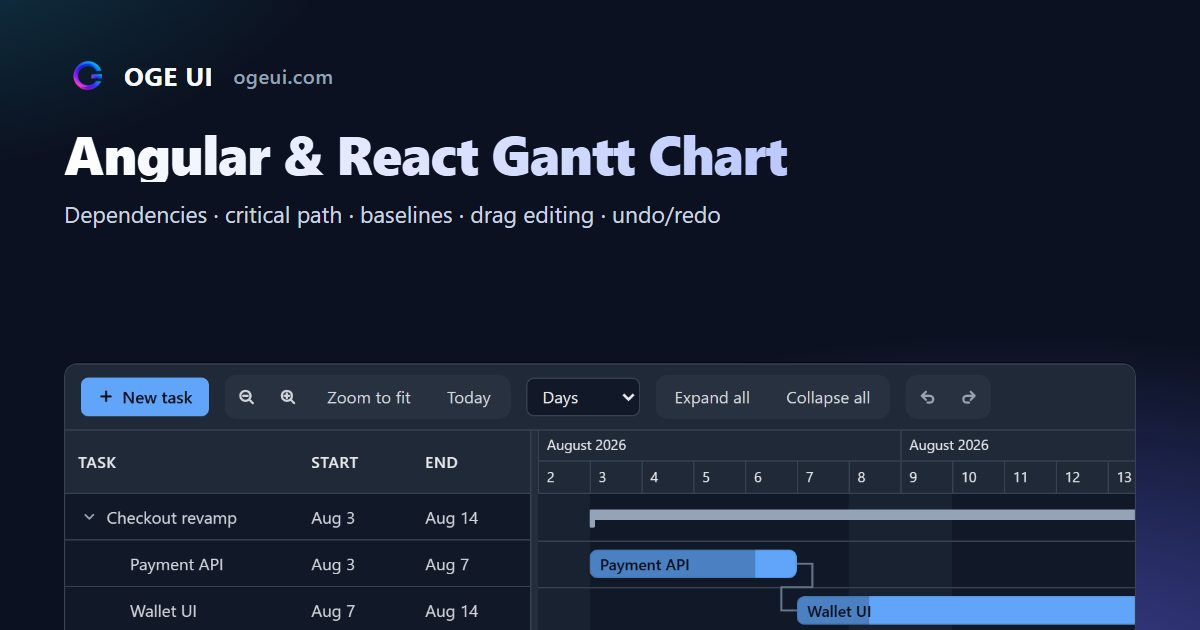
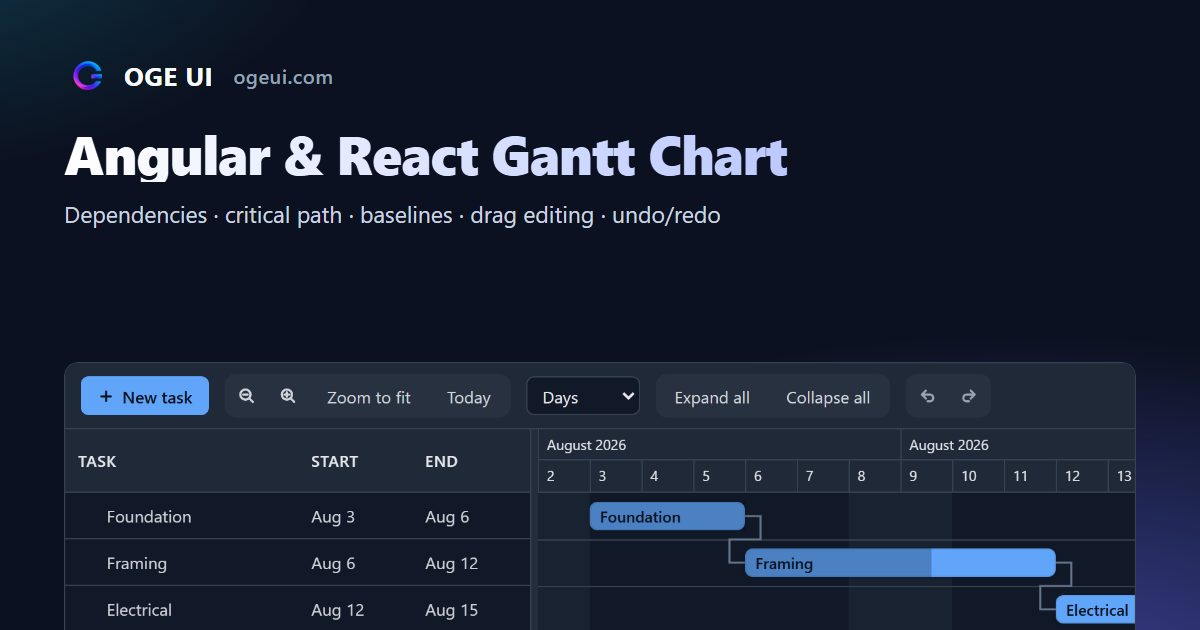
docs: redesign the README hero
The old hero squeezed four ~830px components into 320px tiles (unreadable
text) and left large empty areas. The new one frames the data grid, Gantt,
charts and kanban as titled windows at a readable scale on a brand
backdrop, renders at 2x DPR, and sizes the canvas to the taller column so
no frame shows blank space. The Gantt shot uses the six-task demo, which
also fills the Gantt share card.

diff --git a/README.md b/README.md
@@ -35,7 +35,7 @@
   <a href="https://www.ogeui.com/components/data-grid">
     <picture>
       <source media="(prefers-color-scheme: dark)" srcset="docs/assets/readme-hero-dark.png" />
-      <img src="docs/assets/readme-hero-light.png" alt="OGE UI components: a grouped data grid with summaries, a pivot grid, charts, a Gantt chart and a kanban board" width="900" />
+      <img src="docs/assets/readme-hero-light.png" alt="OGE UI components in window frames: a grouped data grid with summaries, a Gantt chart, charts and a kanban board" width="960" />
     </picture>
   </a>
 </p>
